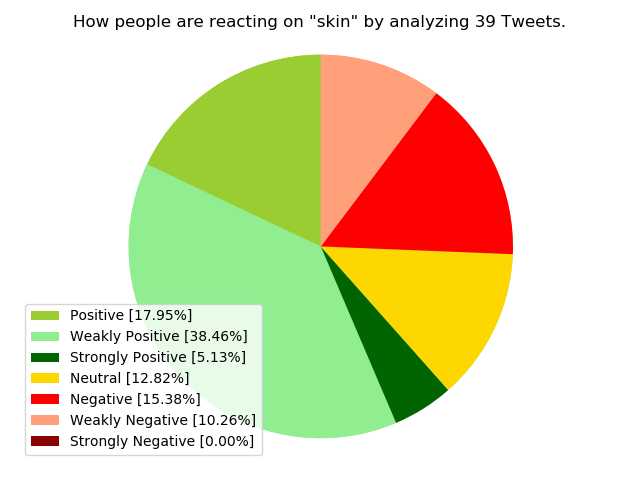
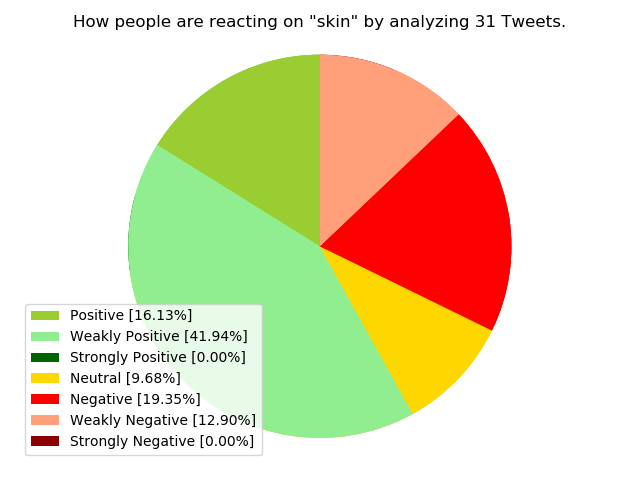
added a step that clears all the pngs in the static folder before the query is submitted, fixed the Tweets page so now without a query submission users will see redirection instruction, but the same thing failed for the Sentiment page

diff --git a/templates/tweets.html b/templates/tweets.html
@@ -1,7 +1,8 @@
 {% extends "layout.html" %}
 	
 {% block content %}
-	<div class="content-section">
+    {% if condition %}
+        <div class="content-section">
 		<h1>Tweets analyzed</h1>
 
 		<table class="table">
@@ -13,4 +14,13 @@
 		</table>
         <p>&nbsp;&nbsp;<a href="{{ url_for('index') }}">Create New Search</a>&nbsp;&nbsp;|&nbsp;&nbsp;<a href="{{ url_for('sentiment') }}">See Sentiment Analysis</a>&nbsp;&nbsp;|&nbsp;&nbsp;<a href="{{ url_for('tweets') }}">See Tweets Analyzed</a>&nbsp;&nbsp;|&nbsp;&nbsp;<a href="{{ url_for('about') }}">About QTracker</a></p>
 	</div>
+    {% else %}
+        {{ super() }}
+        <br>
+        <h4>&nbsp;&nbsp;Oops, you seem to forget to search something.</h4>
+        <h4>&nbsp;&nbsp;<a href="{{ url_for('index') }}">Create a new search to see tweets.</a></h4>
+        <br><br>
+         <p>&nbsp;&nbsp;<a href="{{ url_for('index') }}">Create New Search</a>&nbsp;&nbsp;|&nbsp;&nbsp;<a href="{{ url_for('sentiment') }}">See Sentiment Analysis</a>&nbsp;&nbsp;|&nbsp;&nbsp;<a href="{{ url_for('tweets') }}">See Tweets Analyzed</a>&nbsp;&nbsp;|&nbsp;&nbsp;<a href="{{ url_for('about') }}">About QTracker</a></p>       
+    {% endif %}
+
 {% endblock content %}

diff --git a/templates/sentiment.html b/templates/sentiment.html
@@ -1,10 +1,13 @@
 {% extends "layout.html" %}
-	
-{% block content %}
-	<div class="content-section">
-		<h1>Sentiment Analysis Results</h1>
+{% block head %}
+{% endblock %}
 
-		<img src="{{url_for('static', filename = keyword)}}" alt="pie chart">
+{% block content %}
+
+        <div class="content-section">
+		<h1>Sentiment Analysis Results</h1>
+        
+		<img src="{{url_for('static', filename = file)}}" alt="pie chart">
         <h4>{{ analysis["report_title"] }} </h4>  
         <p>{{ analysis["general"] }} <br><br></p>
         <h4>{{ analysis["de_report"] }}</h4>
@@ -17,6 +20,8 @@
 		</table>
         <p>&nbsp;&nbsp;<a href="{{ url_for('index') }}">Create New Search</a>&nbsp;&nbsp;|&nbsp;&nbsp;<a href="{{ url_for('sentiment') }}">See Sentiment Analysis</a>&nbsp;&nbsp;|&nbsp;&nbsp;<a href="{{ url_for('tweets') }}">See Tweets Analyzed</a>&nbsp;&nbsp;|&nbsp;&nbsp;<a href="{{ url_for('about') }}">About QTracker</a></p>
 	</div>
+
+	
 {% endblock content %}
 
       

diff --git a/final_project.py b/final_project.py
@@ -2,13 +2,13 @@ from datetime import datetime
 from flask import Flask, render_template, url_for, redirect
 from form import UserInput
 from sentiment_analysis import SentimentAnalysis
+import os
+
 
 analysis = []
 tweets = []
 app = Flask(__name__)
 app.config['SECRET_KEY'] = '5791628bb0b13ce0c676dfde280ba245'
-
-
 
 
 @app.route('/', methods=['GET', 'POST'])
@@ -20,6 +20,13 @@ def index():
     form = UserInput()
     
     if form.validate_on_submit():
+        #remove existing pngs
+        dir = "static"
+        files = os.listdir(dir)
+        for file in files:
+            if file.endswith(".png"):
+                os.remove(os.path.join(dir,file))
+            
         #gets data from the form
         keyword = form.keyword.data
         numTweets = int(form.numTweets.data)
@@ -36,8 +43,9 @@ def index():
 
 @app.route('/sentiment')
 def sentiment():
-    
-    return render_template("sentiment.html", title = "Sentiments", analysis = analysis, keyword = f'sentiment_{keyword}.png')
+    #if (len(analysis) > 0) == False:
+        #keyword = 0        
+    return render_template("sentiment.html", title = "Sentiments", analysis = analysis, file = f'sentiment_{keyword}.png')
 
 @app.route('/tweets')
 def tweets():
